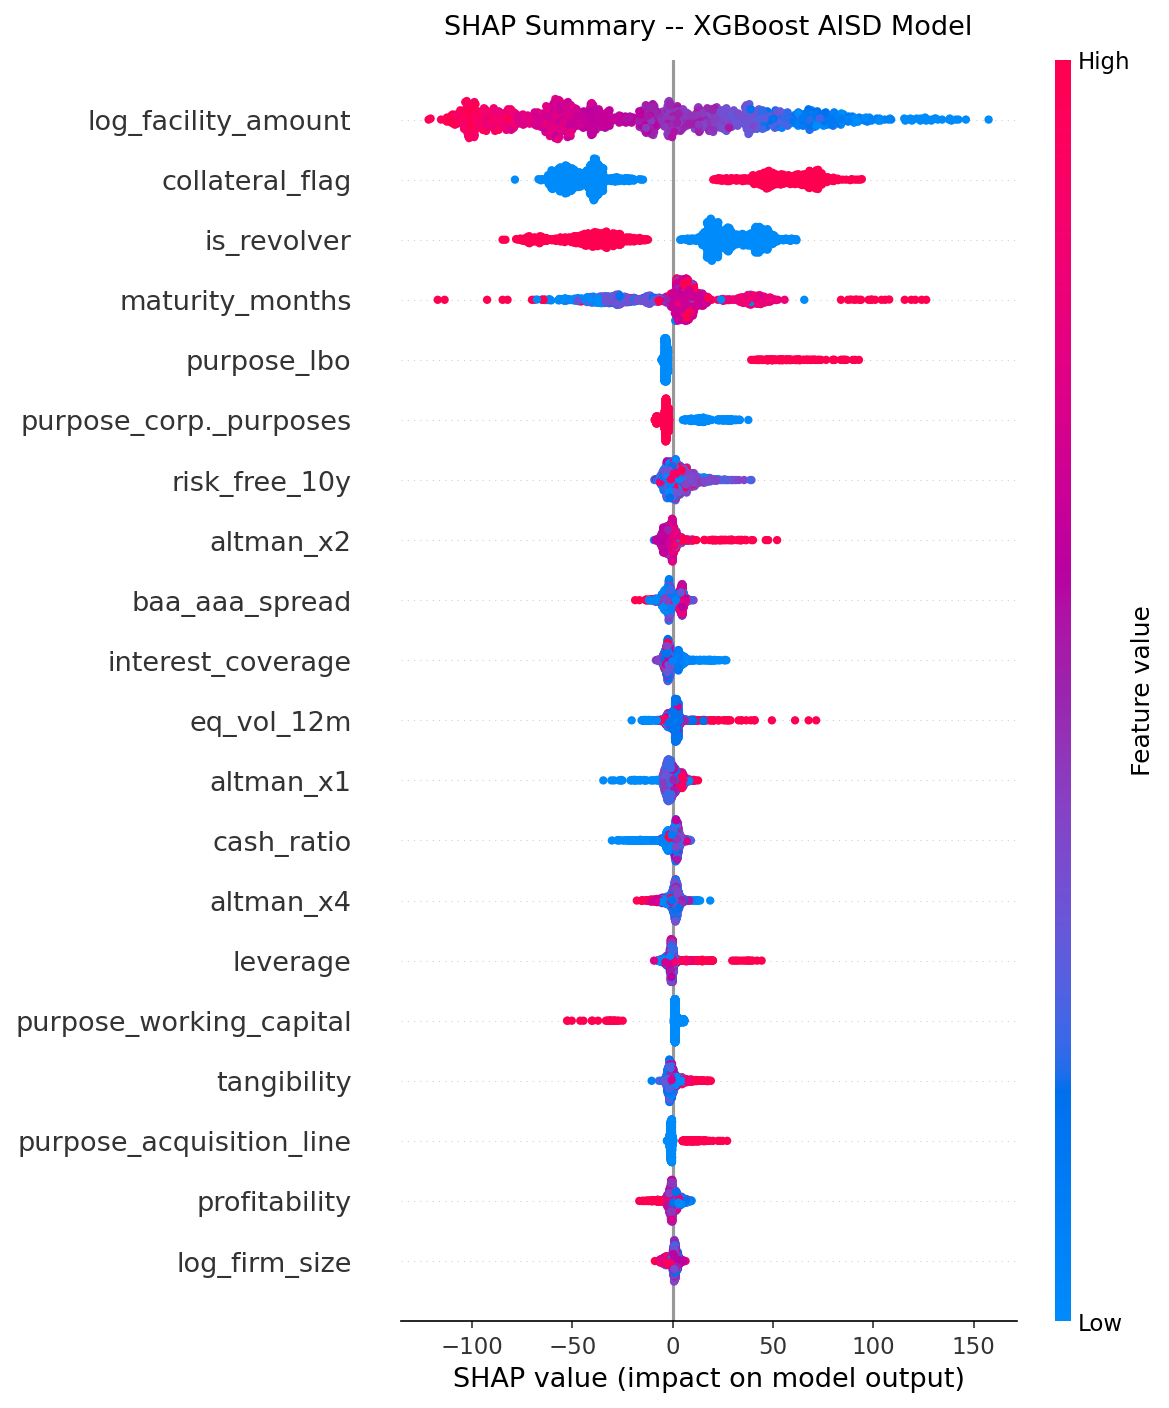
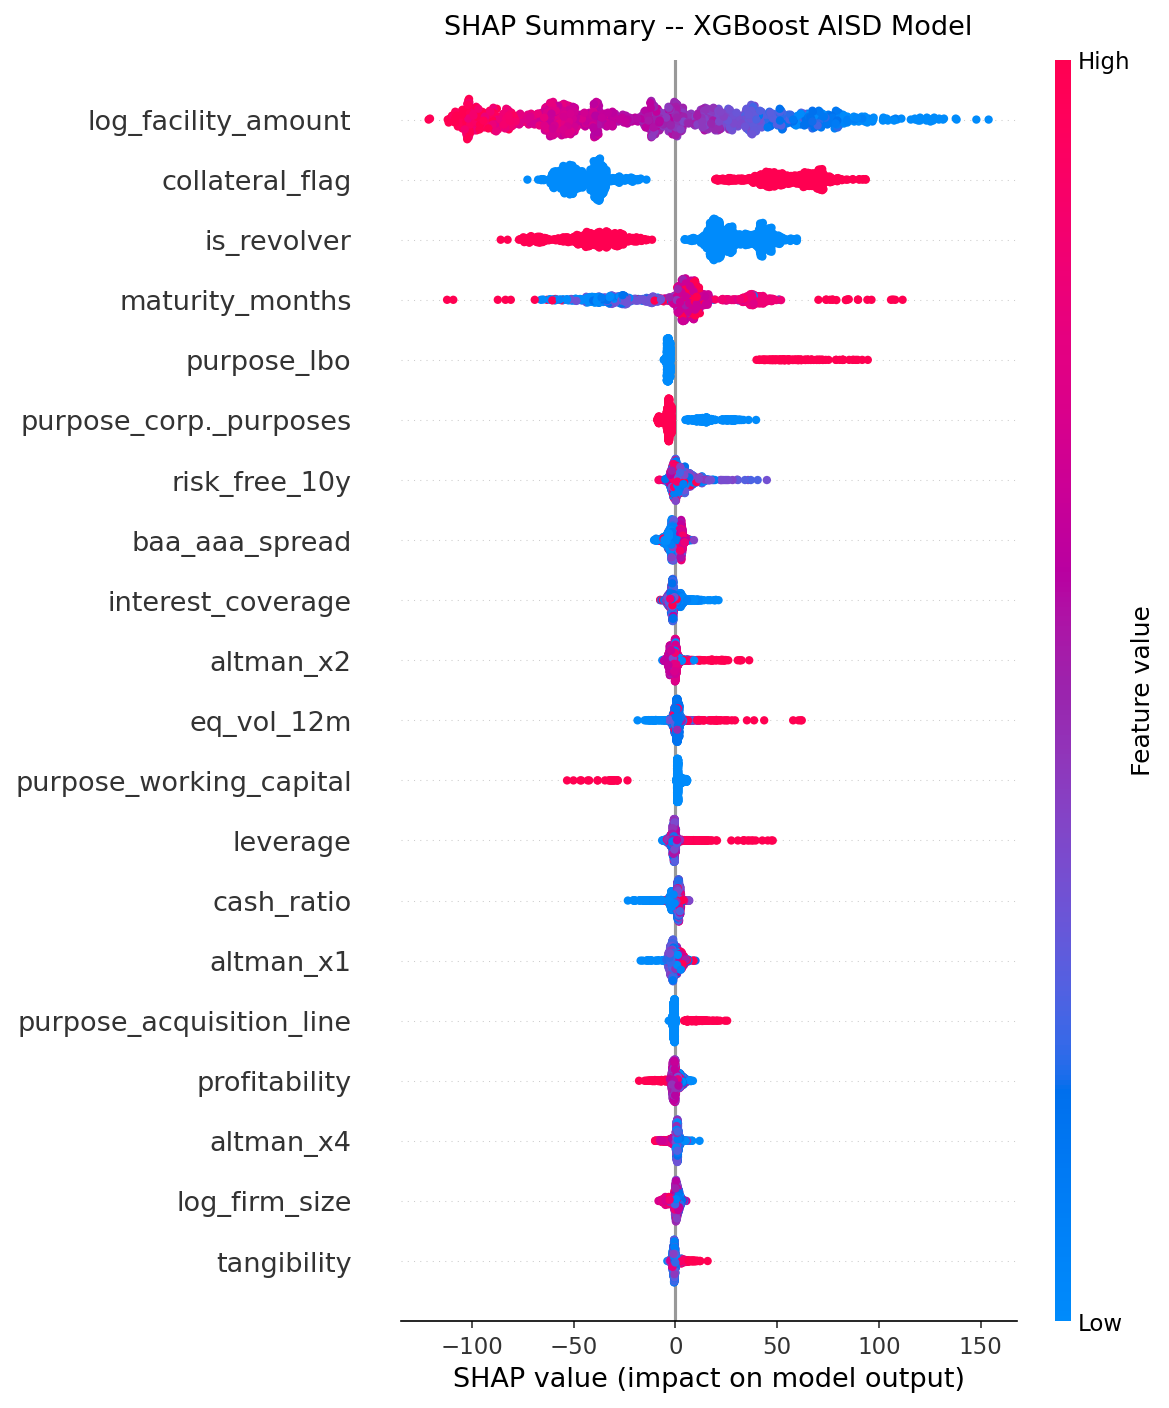
Winsorise features at training-period quantiles only
features.py computed the 1st/99th-percentile clip bounds (and the
eq_vol_12m 99th percentile) on the full panel before model.py split it by
origination date, so validation/test loans influenced the thresholds. The
README already described train-only bounds; the code now matches.

TRAIN_END now lives in features.py and is imported by model.py so the
winsorisation boundary and the train split cannot drift apart.

Re-ran features.py, model.py and shap_analysis.py on the local panel:
XGBoost test RMSE 148.03 -> 148.04, MAE 103.86 -> 103.71, R2 unchanged
(0.4499); Lasso RMSE 158.30 -> 158.29; OLS and Ridge unchanged. SHAP
ranking and PDP shapes are unchanged in substance; figures refreshed.

diff --git a/src/features.py b/src/features.py
@@ -39,6 +39,11 @@ log = logging.getLogger(__name__)
 # Minimum total assets to avoid division noise
 MIN_AT = 10.0   # $10 million
 
+# Last origination date in the training split. Winsorisation bounds are
+# estimated on training-period loans only, then applied to every split, so no
+# validation/test information leaks into the features. model.py imports this.
+TRAIN_END = "2016-12-31"
+
 
 # ---------------------------------------------------------------------------
 # Borrower financial ratios
@@ -48,7 +53,8 @@ def add_borrower_features(df: pd.DataFrame) -> pd.DataFrame:
     """
     Compute balance-sheet and income-statement ratios from Compustat funda.
 
-    Winsorises all ratios at the 1st/99th percentile to limit outlier influence.
+    Winsorises all ratios at the 1st/99th percentile of the training period
+    (origination_date <= TRAIN_END) to limit outlier influence.
 
     Parameters
     ----------
@@ -100,15 +106,16 @@ def add_borrower_features(df: pd.DataFrame) -> pd.DataFrame:
         0.998 * df["altman_x5"]
     )
 
-    # Winsorise all float features at 1/99
+    # Winsorise all float features at 1/99, with bounds from training loans only
     ratio_cols = [
         "leverage", "profitability", "interest_coverage",
         "tangibility", "cash_ratio",
         "altman_x1", "altman_x2", "altman_x3", "altman_x4", "altman_x5",
         "altman_z"
     ]
+    train = df["origination_date"] <= TRAIN_END
     for col in ratio_cols:
-        lo, hi = df[col].quantile([0.01, 0.99])
+        lo, hi = df.loc[train, col].quantile([0.01, 0.99])
         df[col] = df[col].clip(lo, hi)
 
     log.info("Borrower features added.")
@@ -189,12 +196,13 @@ def add_market_features(df: pd.DataFrame) -> pd.DataFrame:
         baa_aaa_spread — BAA minus AAA yield in bps
         risk_free_10y  — 10-year Treasury yield (%)
 
-    Winsorises eq_vol_12m at the 99th percentile.
+    Winsorises eq_vol_12m at the 99th percentile of the training period.
     """
     df = df.copy()
 
     if "eq_vol_12m" in df.columns:
-        hi = df["eq_vol_12m"].quantile(0.99)
+        train = df["origination_date"] <= TRAIN_END
+        hi = df.loc[train, "eq_vol_12m"].quantile(0.99)
         df["eq_vol_12m"] = df["eq_vol_12m"].clip(upper=hi)
 
     log.info("Market/macro features validated.")

diff --git a/src/model.py b/src/model.py
@@ -35,13 +35,14 @@ from sklearn.metrics import (
 from sklearn.preprocessing import StandardScaler
 from xgboost import XGBRegressor
 
+from features import TRAIN_END  # single source for the train/validate boundary
+
 ROOT = Path(__file__).resolve().parents[1]
 RAW = ROOT / "data" / "raw"
 
 FEAT_IN = RAW / "features.parquet"
 MODELS_DIR = RAW / "models"
 
-TRAIN_END = "2016-12-31"
 VALIDATE_END = "2019-12-31"
 TEST_END = "2022-12-31"
 

diff --git a/README.md b/README.md
@@ -107,17 +107,18 @@ validation and test sets.
 ### 4. Winsorisation at training-set quantiles
 
 All ratio features are winsorised at the 1st and 99th percentile of the training
-distribution, not the full sample. The clip bounds are derived from training data and stored,
-then reapplied to unseen splits:
+distribution, not the full sample. The clip bounds are estimated on training-period loans
+only (`origination_date <= TRAIN_END`) and then applied to every split:
 
 ```python
-lo, hi = df_train[col].quantile([0.01, 0.99])
+train = df["origination_date"] <= TRAIN_END
+lo, hi = df.loc[train, col].quantile([0.01, 0.99])
 df[col] = df[col].clip(lo, hi)
 ```
 
 This removes the influence of extreme outliers without discarding observations. Crucially,
-the test set is processed with thresholds the model has never seen, preserving the integrity
-of the out-of-sample evaluation.
+the validation and test loans play no part in setting the thresholds, preserving the
+integrity of the out-of-sample evaluation.
 
 ### 5. Time-aware chronological split
 
@@ -189,9 +190,9 @@ as XGBoost handles collinear inputs natively.
 | Model | RMSE (bps) | MAE (bps) | R² |
 |---|---|---|---|
 | OLS | 158.44 | 114.03 | 0.370 |
-| Lasso | 158.30 | 113.58 | 0.371 |
+| Lasso | 158.29 | 113.58 | 0.371 |
 | Ridge | 158.49 | 114.17 | 0.369 |
-| **XGBoost** | **148.03** | **103.86** | **0.450** |
+| **XGBoost** | **148.04** | **103.71** | **0.450** |
 
 XGBoost achieves approximately a 7% reduction in RMSE relative to OLS, with R² = 0.45
 across a test period that encompasses COVID-era credit stress. The performance gap between
